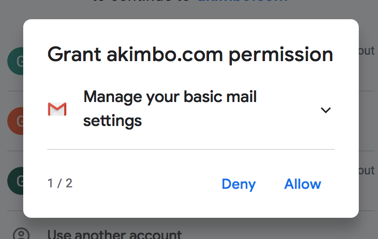
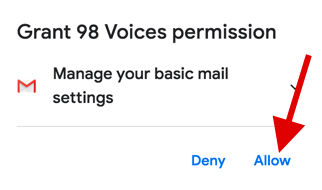
design tweaks

diff --git a/templates/index.html b/templates/index.html
@@ -15,8 +15,8 @@
             <div class="collapse navbar-collapse" id="nav" class="navbar-nav mr-auto" style="justify-content: right;">
                 <a class='nav-link text-right' href="#how_it_works">How it works</a>
                 <a class='nav-link text-right' href="#get_started">Get started</a>
-                <a class='nav-link text-right' href="#undoing_the_app">Undoing the app</a>
                 <a class='nav-link text-right' href="#why_were_doing_this">Why we're doing this</a>
+                <a class='text-right' href="/undo_instructions">Undoing the app</a>
             </div>
         </nav>
     </div>
@@ -60,12 +60,25 @@
                 <h2>Here's how it works</h2>
                 <p>We’ve built a tiny free app that creates a filter in your gmail account (it only works with gmail, but it works on any browser and on your smartphone as well).</p>
 
-                <p>Once you authenticate the app (<a href='#get_started'>see here for screenshots</a>), it creates a filter that will stop Gmail categorizing messages from the 98 voices as promotions.</p>
+                <p>Once you authenticate the app (see below for screenshots), it creates a filter that will stop Gmail categorizing messages from the 98 voices as promotions.</p>
                 <div class='callout'>
                     <p><b>NOTE! Fixing the promo folder won't subscribe you to any new emails. The only thing it does is stop Google from removing emails you want.</b></p>
                 </div>
 
                 <p>Installing the app doesn't sign you up for any newsletters, promos or other email other than rare technical notes about how the app works.</p>
+
+                <p>It won’t slow down your computer. We’ve posted our code on Github so you can see exactly what it does. Even though Google says that the app can view and modify your mail, it doesn’t. All it does is create a bunch of filters that tell Google to put the emails back where they belong.</p>
+
+                <p>Here are the windows you’ll see:</p>
+                <div class="row" id='screenshots'>
+                    <div class='col-sm-6'>
+                        <img src="/static/img/step1.png" class='w-100' alt="Step One" style='margin-bottom: 2em;'> 
+
+                    </div>
+                    <div class='col-sm-6'>
+                        <img src="/static/img/step2.png" class='w-100' alt="Step Two">
+                    </div>
+                </div>
             </div>
             <div class='col-sm-1 col-md-2 col-lg-3'></div>
         </div>
@@ -77,35 +90,12 @@
                 <p>Just click the button. Google will then present you with two or three dialogue boxes you need to check to confirm you want to use it. That’s it.</p>
 
                 <div class="text-center">
-                    <a class='btn btn-primary w-100' href="/process">Go</a>
+                    <a class='btn btn-primary' href="/process">Create my filter</a>
                 </div>
 
-                <p>It won’t slow down your computer. We’ve posted our code on Github so you can see exactly what it does. Even though Google says that the app can view and modify your mail, it doesn’t. All it does is create a bunch of filters that tell Google to put the emails back where they belong.</p>
-
-                <p>Here are the windows you’ll see:</p>
-
-                <div id='screenshots' class='row'>
-                    <div class='col-6'>
-                        <img src="/static/img/step1.png" alt="Step One"> 
-                        <img src="/static/img/step2.png" alt="Step Two">
-                    </div> 
-                    <div class='col-6'>
-                        <img src="/static/img/step3.png" alt="Step 3">
-                    </div>   
-                </div>
             </div>
             <div class='col-sm-1 col-md-2 col-lg-3'></div>
         </div>
-
-        <div class='row' id="undoing_the_app">
-            <div class='col-sm-4 col-sm-1 col-md-2 col-lg-3'></div>
-            <div class='col-sm-10 col-md-8 col-lg-6'>
-                <h2>Undoing the app</h2>
-                <p>It’s as easy to remove the filter as it is to create it. Click the button on <a href="/undo_instructions">this page</a>, sign in, and we'll remove the filter. You can also edit the filter and remove names individually in your <a href="https://mail.google.com/mail/u/0/#settings/filters">Gmail settings</a>.</p>
-            </div>
-            <div class='col-sm-1 col-md-2 col-lg-3'></div>
-        </div>
-
 
         <div class='row' id="why_were_doing_this">
             <div class='col-sm-4 col-sm-1 col-md-2 col-lg-3'></div>

diff --git a/templates/undo_instructions.html b/templates/undo_instructions.html
@@ -7,11 +7,13 @@
             <div class='col-sm-2 col-md-3'></div>
             <div class="col-sm-8 col-md-6">
                 <h2>Removing the Filter</h2>
-                <p>We hope that you'll find this tool helpful. However, we understand that it may not be the right solution for everyone. If you've built your filter and decided it's not for you, we're happy to remove the filter for you. Just click the button below.</p>
+                <p>We hope that you'll find this tool helpful. However, we understand that it may not be the right solution for everyone. If you've built your filter and decided it's not for you, we're happy to remove the filter for you. Just click the button below. You can also edit the filter by going to your <a href="https://mail.google.com/mail/u/0/#settings/filters">Gmail settings</a>.</p>
                 <div class='callout'> 
-                    <p><b>NOTE: this will completely remove the filter that moves the emails out of your promotions folder.</b></p>
+                    <p><b>NOTE: this will completely remove the filter that moves emails out of your promotions folder.</b></p>
                 </div>
-                <a class="btn btn-primary w-100" href="/undo">Remove Filter</a>
+                <div class='text-center'>
+                    <a class="btn btn-primary" href="/undo">Remove Filter</a>
+                </div>
             </div> 
             <div class='col-sm-2 col-md-3'></div>
         </div>

diff --git a/static/style.css b/static/style.css
@@ -57,8 +57,7 @@ hr {
 }
 
 #screenshots img {
-	width: 95%;
-	margin: .5em 0;
+
 }
 
 

diff --git a/config.py b/config.py
@@ -12,7 +12,6 @@ scope = [
     "https://www.googleapis.com/auth/userinfo.profile",
     "openid",
     "https://www.googleapis.com/auth/gmail.settings.basic",
-    "https://www.googleapis.com/auth/gmail.modify",
 ]
 
 
